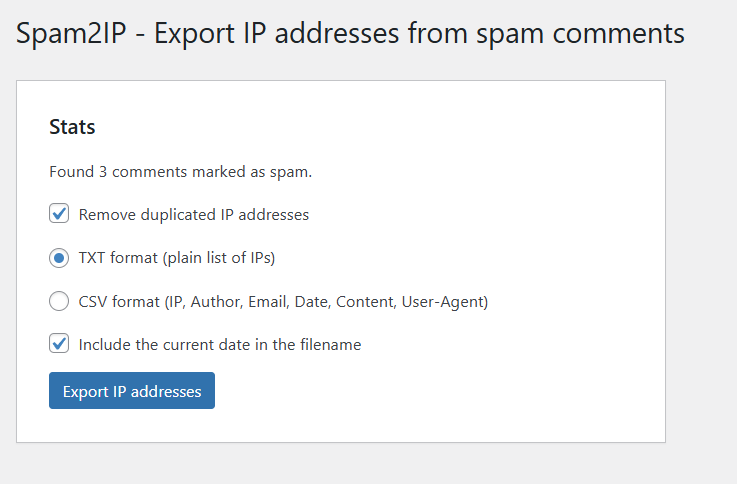
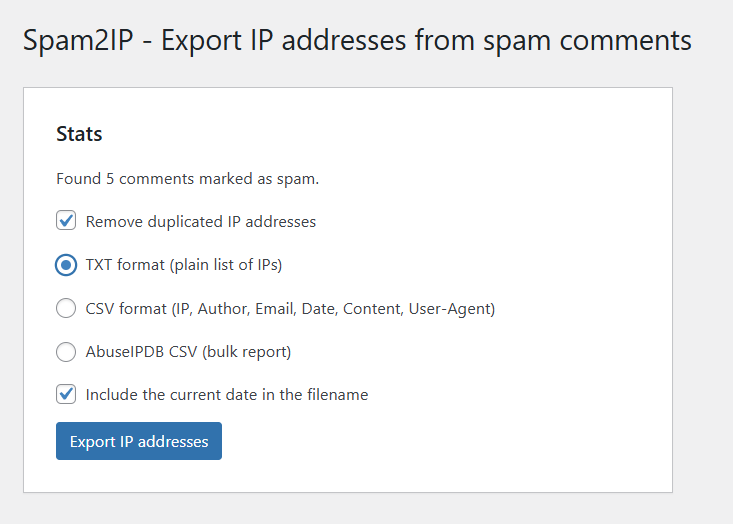
feat: export for AbuseIPDB, bump

diff --git a/spam2ip.php b/spam2ip.php
@@ -2,7 +2,7 @@
 /**
  * Plugin Name:          Spam2IP
  * Description:          Export spam comments to a file, extract IPs
- * Version:              1.0.1
+ * Version:              1.1.0
  * Author:               MrBoombastic
  * License:              MIT
  * Requires at least:    6.7.1
@@ -71,6 +71,12 @@ function spam2ip_page()
                         <label>
                             <input type="radio" name="format" value="csv">
                             CSV format (IP, Author, Email, Date, Content, User-Agent)
+                        </label>
+                    </p>
+                    <p>
+                        <label>
+                            <input type="radio" name="format" value="abuseipdb">
+                            AbuseIPDB CSV (bulk report)
                         </label>
                     </p>
                     <p>
@@ -166,10 +172,42 @@ function spam2ip_process()
         $filename .= '_' . date('Y-m-d');
     }
 
-    $filename .= '.' . $format;
+    if ($format === 'abuseipdb') {
+        $filename .= '_abuseipdb.csv';
+    } else {
+        $filename .= '.' . $format;
+    }
 
     if (ob_get_level()) {
         ob_clean();
+    }
+
+    if ($format === 'abuseipdb') {
+        header('Content-Type: text/csv; charset=utf-8');
+        header('Content-Disposition: attachment; filename="' . $filename . '"');
+        header('Pragma: no-cache');
+        header('Expires: 0');
+
+        echo "IP,Categories,Comment,ReportDate\n";
+        $ip_earliest = array();
+        foreach ($ip_data as $data) {
+            $ip = $data['ip'];
+            if (!isset($ip_earliest[$ip]) || strtotime($data['date']) < strtotime($ip_earliest[$ip]['date'])) {
+                $ip_earliest[$ip] = $data;
+            }
+        }
+        foreach ($ip_earliest as $data) {
+            $escaped_ip = '"' . str_replace('"', '""', $data['ip']) . '"';
+            $category = '12';
+            $comment = 'WordPress comment spam. Reported by Spam2IP: https://github.com/MrBoombastic/wp-spam2ip';
+            $escaped_comment = '"' . str_replace('"', '""', $comment) . '"';
+            $wp_timezone = wp_timezone();
+            $dt = date_create($data['date'], $wp_timezone);
+            $iso_date = $dt->format('c');
+            $escaped_date = '"' . str_replace('"', '""', $iso_date) . '"';
+            echo $escaped_ip . ',' . $category . ',' . $escaped_comment . ',' . $escaped_date . "\n";
+        }
+        exit;
     }
 
     header('Content-Type: text/plain; charset=utf-8');

diff --git a/README.md b/README.md
@@ -19,6 +19,7 @@ author, email, date, content, and User-Agent).
 - 📊 Export in TXT and CSV formats
 - 📅 Add date to filename
 - 📱 WordPress dashboard widget showing spam count
+- 🤖 Generate ready to use AbuseIPDB bulk report CSV file
 
 ## 🔧 Requirements
 
